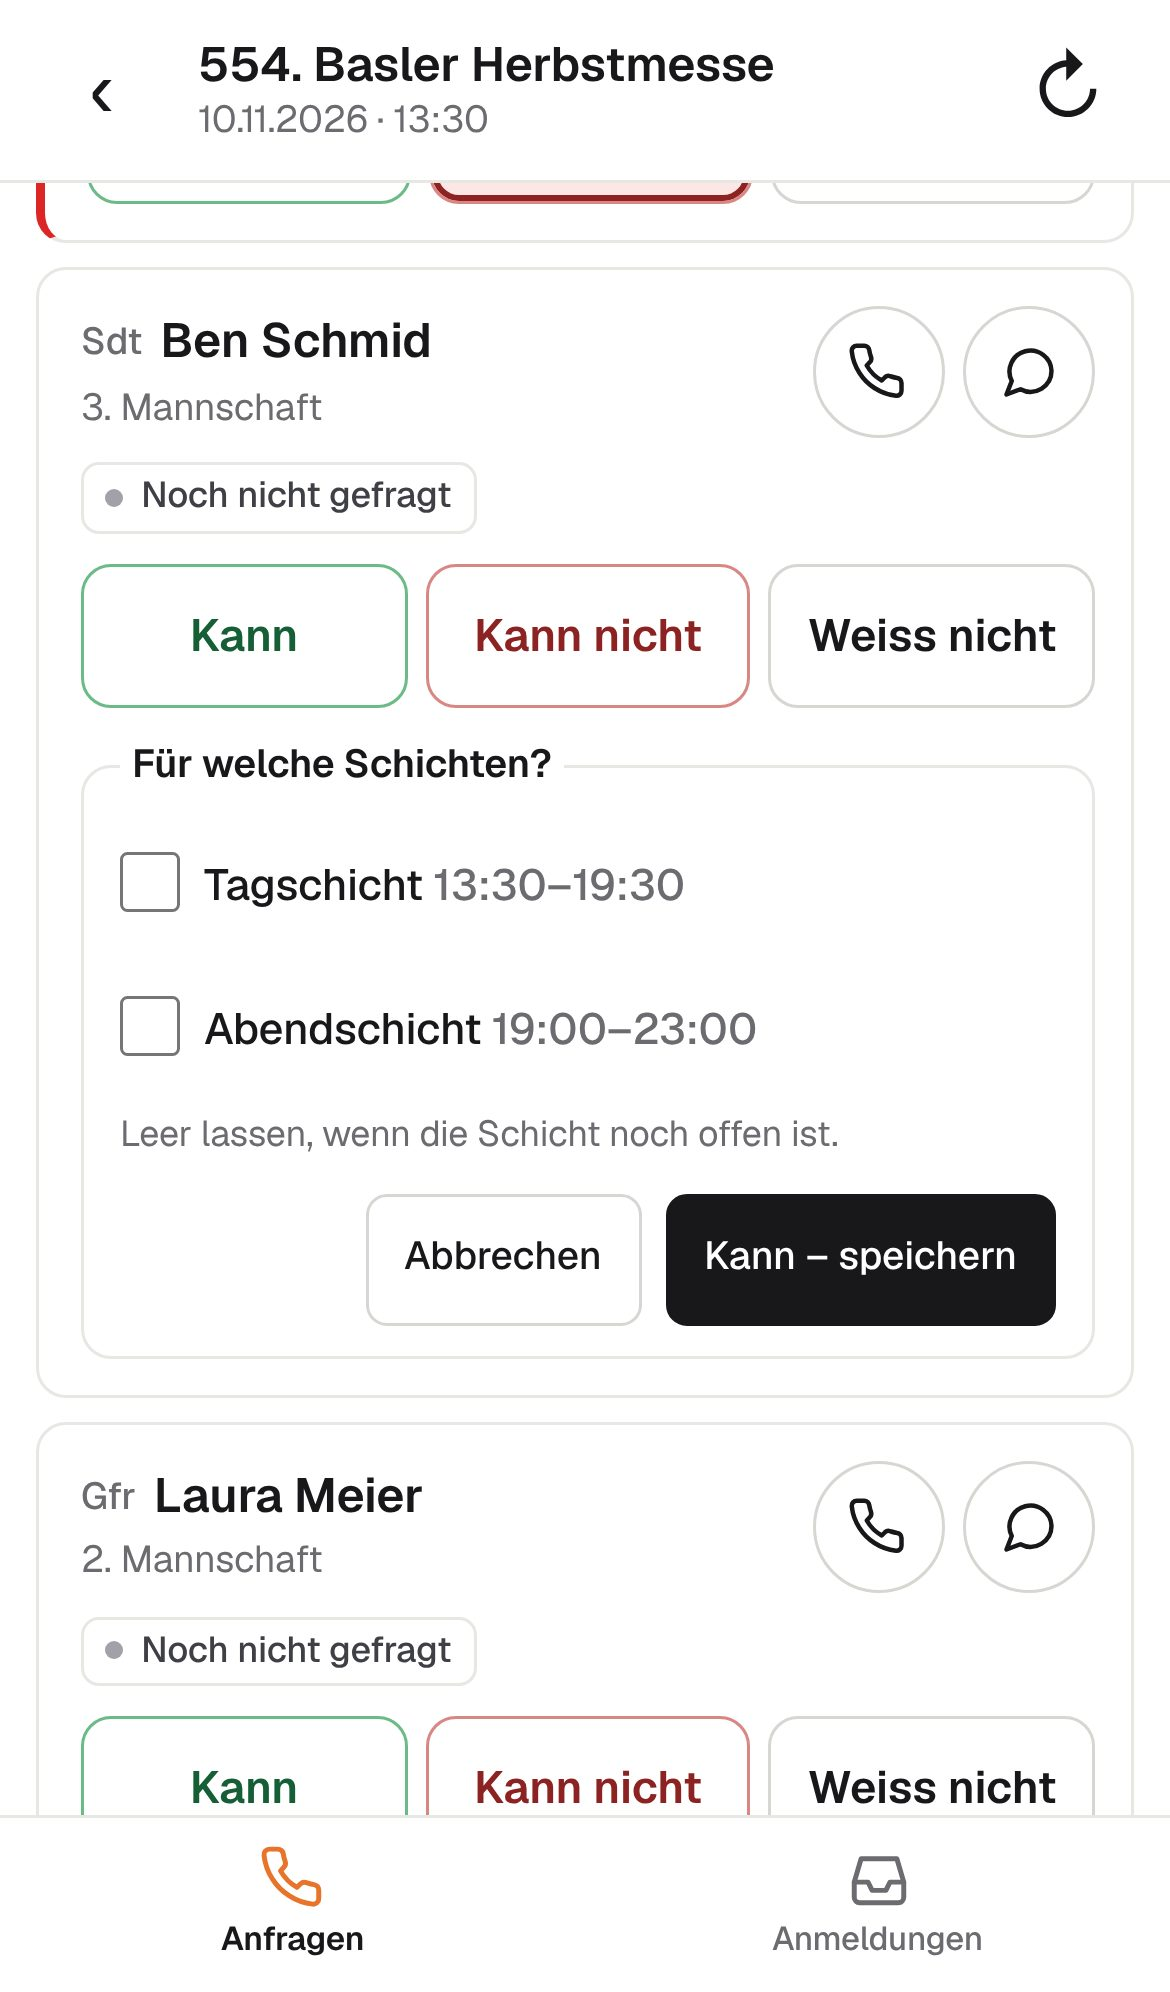
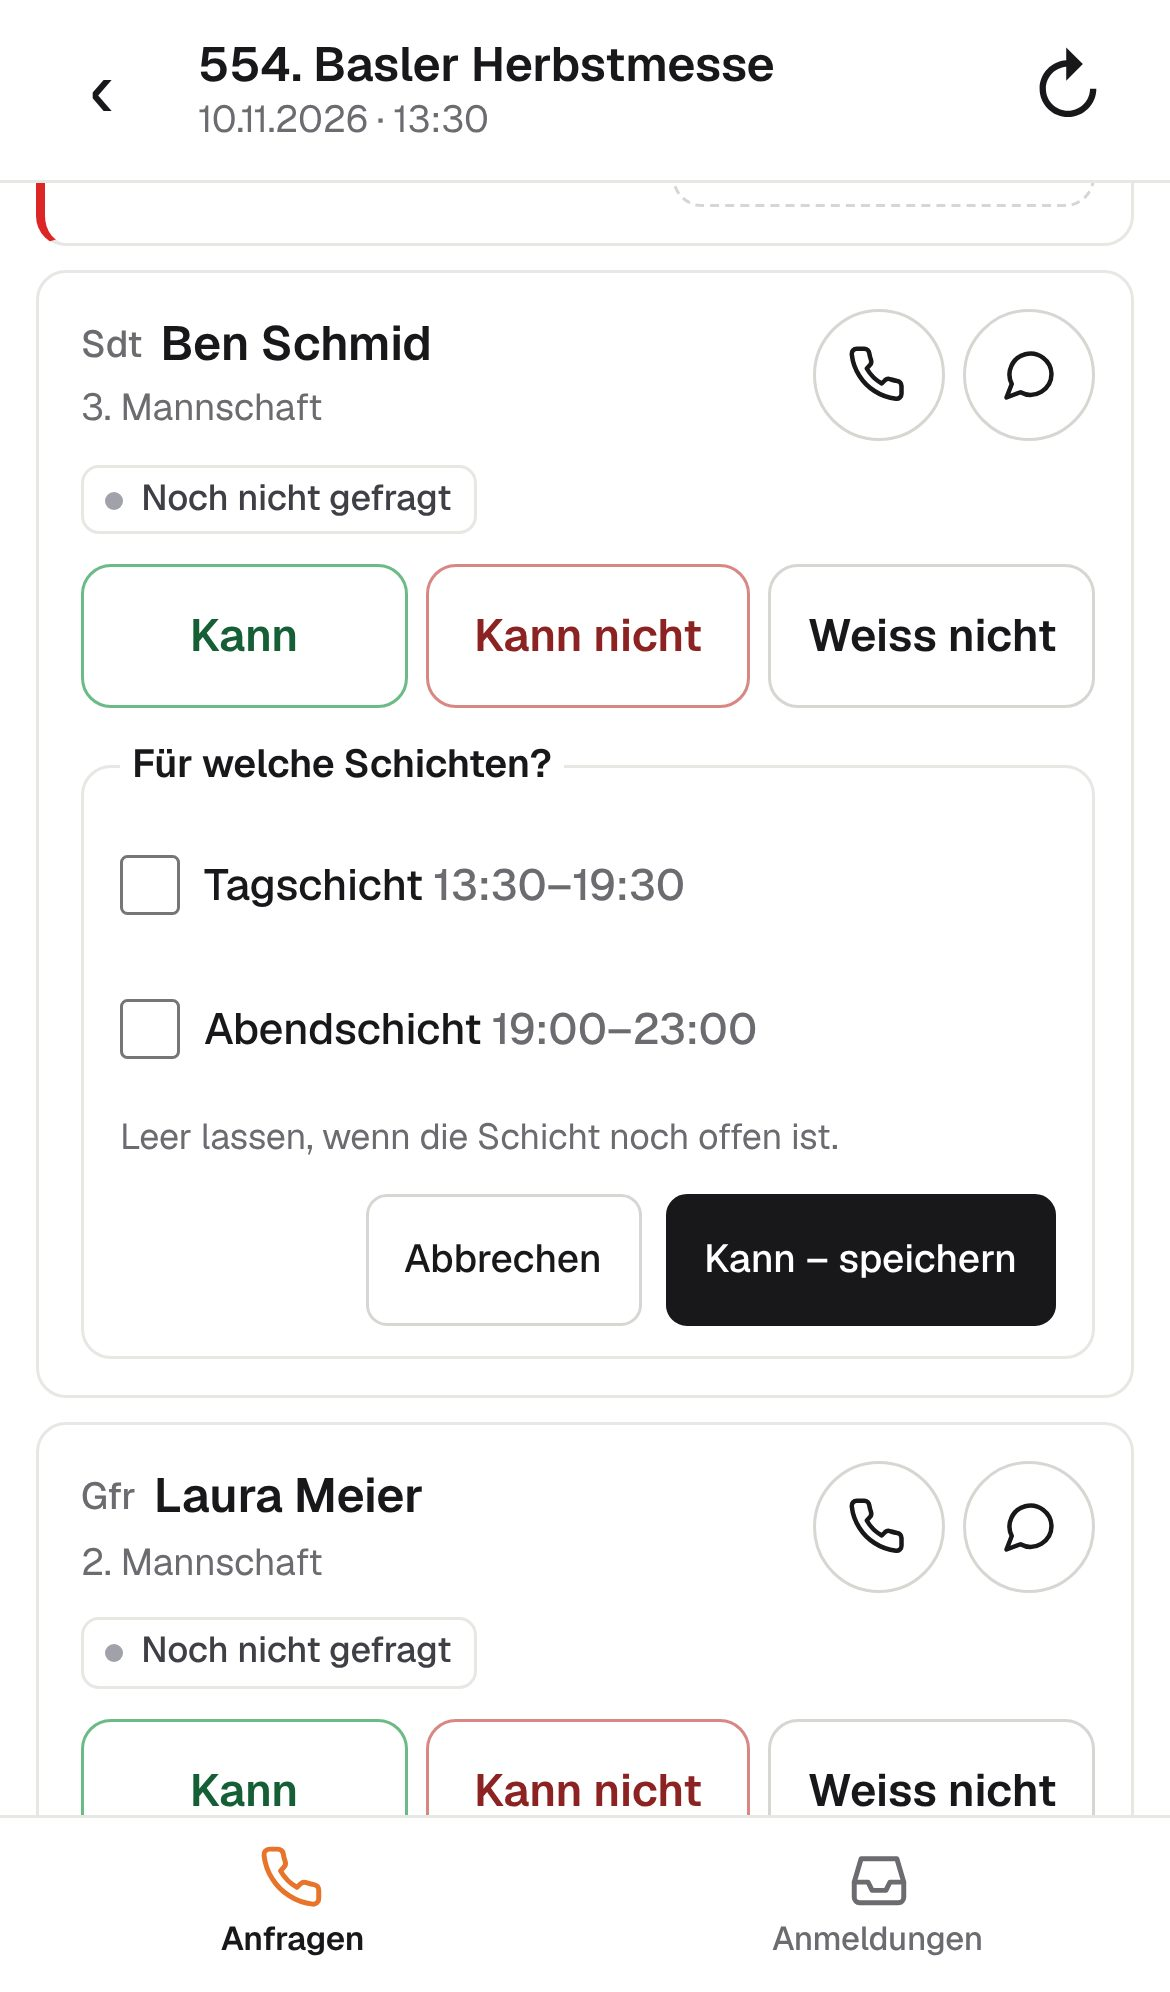
Handy-App: Antwort zurücksetzen mit Rückfrage, Stand vorher wird wiederhergestellt
- Knopf «Zurücksetzen» gut sichtbar unten in jeder Karte, mit Rückfrage
  (welche Antwort gelöscht wird und was danach gilt)
- Zurücknehmen eines Kontaktversuchs holt den alten Status einer bestehenden Anmeldung zurück
  (z. B. aus Versehen «Kann nicht» bei einer Formular-Anmeldung), ohne zweite Bestätigungsmail
- Eine Anmeldung wird nur noch gelöscht, wenn der zurückgenommene Versuch sie selbst erstellt hat
- Handbuch Kapitel 11 nachgeführt, neues Bild 52, Tests ergänzt

Claude-Session: https://claude.ai/code/session_01EBemd4qYCqtvJgMncAa4uL

diff --git a/src/services/inquiries.js b/src/services/inquiries.js
@@ -5,7 +5,7 @@ const audit = require('./audit');
 const live = require('../lib/live');
 const registrations = require('./registrations');
 const { nowIso, localNow, fmtLocal } = require('../lib/dates');
-const { INQUIRY_STATUS, ATTEMPT_RESULT, CHANNEL } = require('../lib/labels');
+const { INQUIRY_STATUS, ATTEMPT_RESULT, CHANNEL, REG_STATUS_MANUAL } = require('../lib/labels');
 const { ValidationError } = require('./errors');
 const { rankOrder } = require('../lib/sorting');
 
@@ -139,9 +139,11 @@ function addAttempt(eventId, personId, input, user) {
 
   return db.tx(() => {
     const inq = ensureInquiry(eventId, personId, user);
-    db.run(`INSERT INTO contact_attempts (inquiry_id, channel, contacted_at, sent_by_user_id, sent_by_name, result, note, created_at, created_by)
+    // Stand der Anmeldung vorher: Beim Zurücknehmen dieses Versuchs wird er wiederhergestellt
+    const regBefore = db.one("SELECT id, status FROM registrations WHERE event_id = ? AND person_id = ? AND status <> 'ungueltig'", eventId, personId);
+    const attemptId = Number(db.run(`INSERT INTO contact_attempts (inquiry_id, channel, contacted_at, sent_by_user_id, sent_by_name, result, note, created_at, created_by)
       VALUES (?, ?, ?, ?, ?, ?, ?, ?, ?)`, inq.id, channel, contactedAt, sentByUser?.id || null, sentByName, result,
-    String(input.note || '').trim() || null, nowIso(), user.id);
+    String(input.note || '').trim() || null, nowIso(), user.id).lastInsertRowid);
     // whatsapp als Ergebnis eines Telefonanrufs ergibt keinen Sinn -> Kanal entscheidet
     let status = result;
     if (result === 'whatsapp' && channel === 'telefon') status = 'nicht_erreicht';
@@ -175,7 +177,10 @@ function addAttempt(eventId, personId, input, user) {
     audit.log({
       entity: 'inquiry', entityId: inq.id, eventId, personId, action: 'attempt',
       summary: `${sentByName} hat ${person.first_name} ${person.last_name} per ${CHANNEL[channel].label} angefragt (${resultText}) · ${event.name}`,
-      details: { kanal: channel, zeitpunkt: fmtLocal(contactedAt), ergebnis: result, gesendet_von: sentByName, erfasst_von: user.display_name, notiz: String(input.note || '').trim() || null }, user,
+      details: {
+        kanal: channel, zeitpunkt: fmtLocal(contactedAt), ergebnis: result, gesendet_von: sentByName, erfasst_von: user.display_name, notiz: String(input.note || '').trim() || null,
+        versuch_id: attemptId, anmeldung_vorher: regBefore ? { id: regBefore.id, status: regBefore.status } : null,
+      }, user,
     });
     live.notify(`event:${eventId}`, 'feedback', `person:${personId}`);
     return { inquiryId: inq.id, registrationId };
@@ -215,10 +220,21 @@ function removeAttempt(eventId, attemptId, user) {
   if (last.id !== a.id) throw new ValidationError(['Nur der letzte Kontaktversuch lässt sich zurücknehmen.']);
   const person = db.one('SELECT * FROM persons WHERE id = ?', a.person_id);
   let regRemoved = false;
+  // Stand der Anmeldung vor diesem Versuch (seit 06.11.2026 im Verlauf gespeichert)
+  const logged = db.one("SELECT details FROM audit_log WHERE action = 'attempt' AND json_extract(details, '$.versuch_id') = ? ORDER BY id DESC LIMIT 1", a.id);
+  const before = logged ? JSON.parse(logged.details || '{}').anmeldung_vorher : null;
   db.tx(() => {
-    if (a.result === 'zugesagt' && a.registration_id) {
+    // Nur eine Anmeldung löschen, die dieser Versuch selbst erstellt hat
+    if (a.result === 'zugesagt' && a.registration_id && !(logged && before)) {
       const reg = db.one('SELECT * FROM registrations WHERE id = ?', a.registration_id);
       if (reg && reg.source !== 'formular') { registrations.remove(reg.id, user); regRemoved = true; }
+    }
+    // Hat der Versuch eine bestehende Anmeldung zurückgezogen oder wieder aktiviert, den alten Status zurückholen
+    if (before && !regRemoved) {
+      const reg = db.one('SELECT id, status FROM registrations WHERE id = ?', before.id);
+      if (reg && reg.status !== before.status && REG_STATUS_MANUAL.includes(before.status)) {
+        registrations.setStatus(reg.id, before.status, user, { expected: reg.status, mail: false }); // keine zweite Bestätigungsmail
+      }
     }
     db.run('DELETE FROM contact_attempts WHERE id = ?', a.id);
     const prev = db.one('SELECT * FROM contact_attempts WHERE inquiry_id = ? ORDER BY contacted_at DESC, id DESC LIMIT 1', a.inquiry_id);

diff --git a/public/css/handy.css b/public/css/handy.css
@@ -75,10 +75,10 @@ body.handy { background: var(--bg); color: var(--text); margin: 0; min-height: 1
 .hc-state { display: flex; align-items: center; gap: 8px; margin-top: 8px; font-size: 12.5px; color: var(--muted); }
 .hc-state .badge { font-size: 12px; flex: none; }
 .hc-last { flex: 1; min-width: 0; overflow: hidden; text-overflow: ellipsis; white-space: nowrap; }
-.hc-undo { margin: 0 0 0 auto; flex: none; }
-.hc-undo-btn { display: inline-flex; align-items: center; gap: 4px; min-height: 36px; padding: 0 8px; border: 0; background: none; color: var(--muted); font: inherit; font-size: 12.5px; cursor: pointer; border-radius: 8px; }
-.hc-undo-btn svg { width: 14px; height: 14px; }
-.hc-undo-btn:active { background: var(--hover-2); }
+.hc-reset { margin: 8px 0 0; display: flex; justify-content: flex-end; }
+.hc-reset-btn { display: inline-flex; align-items: center; gap: 6px; min-height: 44px; padding: 0 14px; border: 1px dashed var(--border-strong); background: none; color: var(--text-2); font: inherit; font-size: 14px; font-weight: 500; cursor: pointer; border-radius: 10px; }
+.hc-reset-btn svg { width: 16px; height: 16px; }
+.hc-reset-btn:active { background: var(--hover-2); }
 .hc-form { margin: 10px 0 0; }
 .hc-answers { display: grid; grid-template-columns: repeat(3, 1fr); gap: 6px; }
 .h-ans { min-height: 48px; padding: 0 4px; white-space: nowrap; border-radius: 10px; border: 1px solid var(--border-strong); background: var(--paper); color: var(--text); font: inherit; font-size: 15px; font-weight: 600; cursor: pointer; touch-action: manipulation; }
@@ -104,12 +104,15 @@ body.handy { background: var(--bg); color: var(--text); margin: 0; min-height: 1
 
 /* Meldung unten */
 .h-toast { position: fixed; left: 50%; bottom: max(16px, env(safe-area-inset-bottom)); transform: translateX(-50%); z-index: 40; max-width: calc(100% - 32px); box-sizing: border-box; padding: 10px 16px; border-radius: 10px; background: var(--ink); color: var(--paper); font-size: 14px; }
+.h-toast { width: max-content; text-align: center; }
 .h-toast.is-error { background: var(--dot-red); color: #fff; }
 
 /* Bestätigung im eigenen Fenster */
-.h-dialog { border: 1px solid var(--line); border-radius: 14px; padding: 18px; max-width: min(360px, calc(100% - 32px)); background: var(--paper); color: var(--text); }
+.h-dialog { position: fixed; inset: 0; margin: auto; height: fit-content; box-sizing: border-box; border: 1px solid var(--line); border-radius: 14px; padding: 18px; max-width: min(360px, calc(100% - 32px)); background: var(--paper); color: var(--text); }
 .h-dialog::backdrop { background: rgba(0, 0, 0, 0.4); }
-.h-dialog p { margin: 0 0 16px; font-size: 15px; }
+.h-dialog h2 { margin: 0 0 8px; font-size: 17px; }
+.h-dialog p { margin: 0 0 16px; font-size: 15px; line-height: 1.45; color: var(--text-2); }
+.h-dialog .btn-danger { background: var(--dot-red); border-color: var(--dot-red); color: #fff; }
 .h-dialog div { display: flex; gap: 8px; justify-content: flex-end; }
 .h-dialog .btn { min-height: 44px; }
 

diff --git a/test/handy.test.js b/test/handy.test.js
@@ -174,6 +174,36 @@ test('Handy-App: Anmeldungen ansehen und bestätigen, Ansicht nach Teilnehmer', 
   assert.ok(db.one('SELECT 1 FROM registrations WHERE event_id = ? AND person_id = ?', ev2, tom));
 });
 
+test('Zurücksetzen stellt den Stand vorher wieder her', async () => {
+  const db = require('../src/db');
+  const persons = require('../src/services/persons');
+  const events = require('../src/services/events');
+  const registrations = require('../src/services/registrations');
+  const inquiries = require('../src/services/inquiries');
+  const { today, addDays } = require('../src/lib/dates');
+  const user = db.one("SELECT * FROM users WHERE username = 'lena'");
+  const ev = events.create({ name: 'Übung Rhein', date: addDays(today(), 5), start_time: '09:00', end_time: '12:00' }, system);
+  const lastAttempt = (pid) => db.one('SELECT a.id FROM contact_attempts a JOIN inquiries i ON i.id = a.inquiry_id WHERE i.event_id = ? AND i.person_id = ? ORDER BY a.id DESC LIMIT 1', ev, pid).id;
+
+  // Über das Formular angemeldet, aus Versehen «Kann nicht» getippt: Zurücksetzen holt die Anmeldung zurück
+  const fia = persons.create({ first_name: 'Fia', last_name: 'Formular', status: 'aktiv' }, system);
+  const rid = registrations.create({ eventId: ev, personId: fia, matchType: 'auto', source: 'formular', answer: 'ja', wishes: [], user: system });
+  registrations.setStatus(rid, 'bestaetigt', system);
+  inquiries.addAttempt(ev, fia, { channel: 'muendlich', result: 'abgesagt' }, user);
+  assert.equal(db.one('SELECT status FROM registrations WHERE id = ?', rid).status, 'zurueckgezogen');
+  inquiries.removeAttempt(ev, lastAttempt(fia), user);
+  assert.equal(db.one('SELECT status FROM registrations WHERE id = ?', rid).status, 'bestaetigt');
+
+  // Zweimal «Kann»: Zurücksetzen des zweiten lässt die Anmeldung aus dem ersten stehen
+  const kai = persons.create({ first_name: 'Kai', last_name: 'Kann', status: 'aktiv' }, system);
+  inquiries.addAttempt(ev, kai, { channel: 'telefon', result: 'zugesagt' }, user);
+  inquiries.addAttempt(ev, kai, { channel: 'muendlich', result: 'zugesagt' }, user);
+  inquiries.removeAttempt(ev, lastAttempt(kai), user);
+  assert.ok(db.one('SELECT 1 FROM registrations WHERE event_id = ? AND person_id = ?', ev, kai), 'Anmeldung bleibt');
+  inquiries.removeAttempt(ev, lastAttempt(kai), user);
+  assert.equal(db.one('SELECT 1 AS x FROM registrations WHERE event_id = ? AND person_id = ?', ev, kai), undefined, 'erste Zusage zurückgesetzt: Anmeldung weg');
+});
+
 test('Einsatzleiter haben keine Handy-App', async () => {
   const cookie = await login('leiter', 'Kommando-Lauf-2026');
   assert.equal((await get('/handy', cookie)).status, 403);

diff --git a/public/js/handy.js b/public/js/handy.js
@@ -21,20 +21,21 @@
   }
 
   // ---------- Eigene Rückfrage statt confirm() ----------
-  function ask(text) {
+  function ask(text, { title = '', ok = 'Ja' } = {}) {
     return new Promise((resolve) => {
       if (typeof HTMLDialogElement === 'undefined') return resolve(window.confirm(text));
       const d = document.createElement('dialog');
       d.className = 'h-dialog';
       const p = document.createElement('p'); p.textContent = text;
+      const h = document.createElement('h2'); h.textContent = title;
       const row = document.createElement('div');
       const no = document.createElement('button'); no.type = 'button'; no.className = 'btn btn-ghost'; no.textContent = 'Abbrechen';
-      const yes = document.createElement('button'); yes.type = 'button'; yes.className = 'btn btn-primary'; yes.textContent = 'Ja, rückgängig machen';
+      const yes = document.createElement('button'); yes.type = 'button'; yes.className = 'btn btn-danger'; yes.textContent = ok;
       const close = (v) => { d.close(); d.remove(); resolve(v); };
       no.addEventListener('click', () => close(false));
       yes.addEventListener('click', () => close(true));
       d.addEventListener('cancel', (e) => { e.preventDefault(); close(false); });
-      row.append(no, yes); d.append(p, row); document.body.append(d);
+      row.append(no, yes); if (title) d.append(h); d.append(p, row); document.body.append(d);
       d.showModal(); yes.focus();
     });
   }
@@ -103,7 +104,7 @@
       const panel = $('[data-shift-panel]', form);
       if (panel) { panel.hidden = false; panel.scrollIntoView({ block: 'nearest', behavior: 'smooth' }); return; }
     }
-    if (form.dataset.confirm && !(await ask(form.dataset.confirm))) return;
+    if (form.dataset.confirm && !(await ask(form.dataset.confirm, { title: form.dataset.confirmTitle, ok: form.dataset.confirmOk || 'Ja' }))) return;
     const body = new URLSearchParams();
     for (const [k, v] of new FormData(form)) body.append(k, v);
     if (btn && btn.name) body.append(btn.name, btn.value);
@@ -131,7 +132,7 @@
       setTimeout(() => fresh.classList.remove('is-saved'), 1200);
       const ans = btn && btn.name === 'antwort' ? btn.value : null;
       if (form.dataset.hKind === 'reg') { toast(`${who}: ${(btn && btn.dataset.doneText) || 'gespeichert'}`); return; }
-      toast(ans ? `${who}: ${ANSWER_TEXT[ans] || 'gespeichert'}` : `${who}: rückgängig gemacht`);
+      toast(ans ? `${who}: ${ANSWER_TEXT[ans] || 'gespeichert'}` : `${who}: zurückgesetzt`);
       updateCounts();
     } catch {
       card.classList.remove('is-busy');

diff --git a/src/services/registrations.js b/src/services/registrations.js
@@ -245,7 +245,7 @@ function applyWishes(regId, eventId, wishes, user) {
 }
 
 // Statuswechsel als Einzelaktion: prüft den erwarteten Vorzustand statt der ganzen Version
-function setStatus(id, to, user, { expected = null, silent = false } = {}) {
+function setStatus(id, to, user, { expected = null, silent = false, mail = true } = {}) {
   if (!REG_STATUS_MANUAL.includes(to) && to !== 'ungueltig') throw new ValidationError(['Dieser Status kann nicht von Hand gesetzt werden.']);
   const reg = get(id);
   if (!reg) throw new ValidationError(['Anmeldung nicht gefunden.']);
@@ -278,7 +278,7 @@ function setStatus(id, to, user, { expected = null, silent = false } = {}) {
       details: { status: { alt: reg.status, neu: to } }, user,
     });
   }
-  if (to === 'bestaetigt') {
+  if (to === 'bestaetigt' && mail) {
     // Automatische Anmeldebestätigung per E-Mail (sofern hinterlegt)
     require('./calendar').sendConfirmation(id, user).catch((err) => console.error('Bestätigung fehlgeschlagen:', err));
   }

diff --git a/docs/handbuch/handbuch.md b/docs/handbuch/handbuch.md
@@ -382,7 +382,7 @@ Weitere Hilfen im Reiter:
 - **Filter oben:** Ein Klick zeigt nur die Personen mit diesem Status, z. B. **Noch nicht angefragt** = alle, die noch niemand kontaktiert hat. **Alle** zeigt wieder die ganze Liste. Daneben Mannschaft, Sortierung nach Rang und Namenssuche.
 - **Gruppen:** Oben stehen die Personen, bei denen noch etwas offen ist (**Noch offen**). Darunter folgen unter **Erledigt** alle, die zugesagt, sich angemeldet oder abgesagt haben.
 - **Kontaktversuche** stehen mit Kanal (Tel / WA), Datum, Uhrzeit, wer es war, Ergebnis und Notiz.
-- Der **Pfeil** beim letzten Kontaktversuch nimmt ihn zurück, falls er falsch erfasst wurde. Hat er eine Anmeldung erzeugt, wird diese mitgelöscht.
+- Der **Pfeil** beim letzten Kontaktversuch nimmt ihn zurück, falls er falsch erfasst wurde. Hat er eine Anmeldung erzeugt, wird diese mitgelöscht. Hat er eine bestehende Anmeldung zurückgezogen, bekommt sie ihren Status von vorher zurück.
 - **Mehrere auf einmal:** Hat man mehreren dieselbe WhatsApp geschickt, kreuzt man sie links an. Dann erscheint der Knopf **Kontakt für 3 Personen erfassen** (mit der Anzahl), und man erfasst den Kontakt für alle in einem Schritt. **Alle auswählen** kreuzt die ganze (gefilterte) Liste an.
 
 ![Kontaktversuch erfassen](bilder/12-kontaktversuch.jpg)
@@ -457,7 +457,14 @@ Die Antwort ist sofort gespeichert. Unten erscheint kurz eine Bestätigung, z. B
 
 **Einsatz mit mehreren Schichten:** Nach **Kann** fragt die App, für welche Schichten die Person kann. Ankreuzen und **Kann – speichern** tippen. Ist die Schicht noch offen, nichts ankreuzen. Zuteilen geht später auch am Computer unter «Schichten».
 
-**Falsch getippt?** In der Karte auf **Rückgängig** tippen. Das macht den letzten Eintrag dieser Person rückgängig. Hat dieser Eintrag eine Anmeldung erstellt, wird sie ebenfalls gelöscht. Vorher fragt die App nach.
+**Falsch getippt?** Nach einer Antwort steht unten in der Karte **Zurücksetzen**. Die App fragt zuerst nach: «Antwort zurücksetzen?». Sie zeigt, welche Antwort gelöscht wird und was danach wieder gilt. Erst **Ja, zurücksetzen** löscht die Antwort.
+
+![Handy-App: Antwort zurücksetzen](bilder/52-handy-zuruecksetzen.jpg)
+
+- Zurücksetzen löscht immer nur die letzte Antwort dieser Person für diesen Einsatz. Danach gilt wieder die Antwort davor, z. B. «Nicht erreicht» oder «Noch nicht gefragt».
+- Hat die Antwort «Kann» eine Anmeldung erstellt, wird diese Anmeldung ebenfalls gelöscht.
+- Hat die Antwort «Kann nicht» eine bestehende Anmeldung zurückgezogen, z. B. aus dem Formular, bekommt die Anmeldung ihren Status von vorher zurück. Eine bestätigte Anmeldung ist danach wieder bestätigt. Eine zweite Bestätigungsmail geht nicht hinaus.
+- Am Computer macht der Pfeil ↶ beim letzten Kontaktversuch im Reiter «Anfragen» dasselbe.
 
 **Filter:** **Noch offen**, **Kann**, **Kann nicht** und **Alle** filtern die Liste. Beim Öffnen steht **Noch offen**. **Name suchen** filtert sofort beim Tippen. Daneben lässt sich eine Mannschaft wählen.
 
